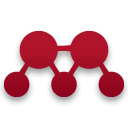
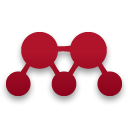
update images, get toggle buttons working with pane/views

diff --git a/enyo/main.js b/enyo/main.js
@@ -17,44 +17,68 @@ enyo.kind({
 		},
   		{
   			kind: "Toolbar",
-  			name: 'toolbar', 
+  			name: 'toolbar',
+  			//className: 'enyo-toolbar-light',
   			components: [
-		      	{
-		      		caption: "Dashboard",
-		      		flex: 1,
-		      		value: 'dashboard',
-	      			toggling: true
-      			},
-		      	{
-		      		caption: "My Library",
-		      		flex: 1,
-		      		value: 'library',
-		      		toggling: true
-	      		},
-		      	{
-		      		caption: "Papers",
-		      		flex: 1,
-		      		value: 'papers',
-		      		toggling: true
-	      		},
-		      	{
-		      		caption: "Groups",
-		      		flex: 1,
-		      		value: 'groups',
-		      		toggling: true
-	      		},
-		      	{
-		      		caption: "People",
-		      		flex: 1,
-		      		value: 'people',
-		      		toggling: true
-	      		}
+  				{
+  					kind: "TabGroup",
+  					flex: 1,
+  					name: 'mainButtons',
+  					onChange: 'myGroupClick',
+  					components: [
+		      			{
+		      				name: 'btnDashboard',
+			      			caption: "Dashboard",
+			      			value: 'viewDashboard'
+      					},
+				      	{
+				      		name: 'btnLibrary',
+				      		caption: "My Library",
+				      		value: 'viewLibrary'
+			      		},
+				      	{
+				      		name: 'btnPapers',
+				      		caption: "Papers",
+				      		value: 'viewPapers'
+			      		},
+				      	{
+				      		name: 'btnGroups',
+				      		caption: "Groups",
+				      		value: 'viewGroups'
+			      		},
+				      	{
+				      		name: 'btnPeople',
+				      		caption: "People",
+				      		value: 'viewPeople'
+			      		}
+  					]
+  				},
   			]
 		},
-  		{
-  			name: 'statusText',
-  			flex: 1,
-  			className: 'logo-large'
+		{
+			kind: "Pane",
+			flex: 1,
+			name: 'viewPane',
+			components: [
+				{name: 'viewLibrary',flex:1},
+				{name: 'viewDashboard',flex:1},
+				{name: 'viewPapers',flex:1},
+				{name: 'viewGroups',flex:1},
+				{name: 'viewPeope',flex:1}
+			]
+		},
+		{
+			kind: 'Toolbar',
+			name: 'bottom-bar',
+			//className: 'enyo-toolbar-light',
+			pack: "end",
+			components: [
+				{
+					kind: 'Button',
+					caption: 'Details',
+					//showing: false
+				},
+			]
 		}
 	],
 	
@@ -69,14 +93,16 @@ enyo.kind({
 	},
 
 	myGroupClick: function(inSender, e) {
-  		this.$.statusText.setContent("Current selection: " + inSender.getValue())
+  		this.warn("Current selection: " + inSender.getValue())
+  		this.$.viewPane.selectViewByName(inSender.getValue());
 	},
 	
 	library: function(data) {
-		this.$.statusText.setContent(enyo.json.stringify(data))
+		this.$.viewLibrary.setContent(enyo.json.stringify(data))
 	},	
 	
 	getLibrary: function() {
+		this.$.mainButtons.setValue('viewLibrary')
 		this.$.client.getLibrary(enyo.bind(this,'library'), enyo.bind(this,'failure'))
 	},
 	
@@ -89,7 +115,6 @@ enyo.kind({
 	},
 	
 	handleOAuthReady: function(hasAccount) {
-		this.warn("has accounbt: "+hasAccount)
 		if (hasAccount)
 			this.getLibrary()
 		else

diff --git a/css/main.css b/css/main.css
@@ -1,3 +1,2 @@
 .logo-large {
-    background: url(../images/icon-512.png) center center no-repeat;
-}
+    background: url(../images/icon-256.png) center center no-repeat;
